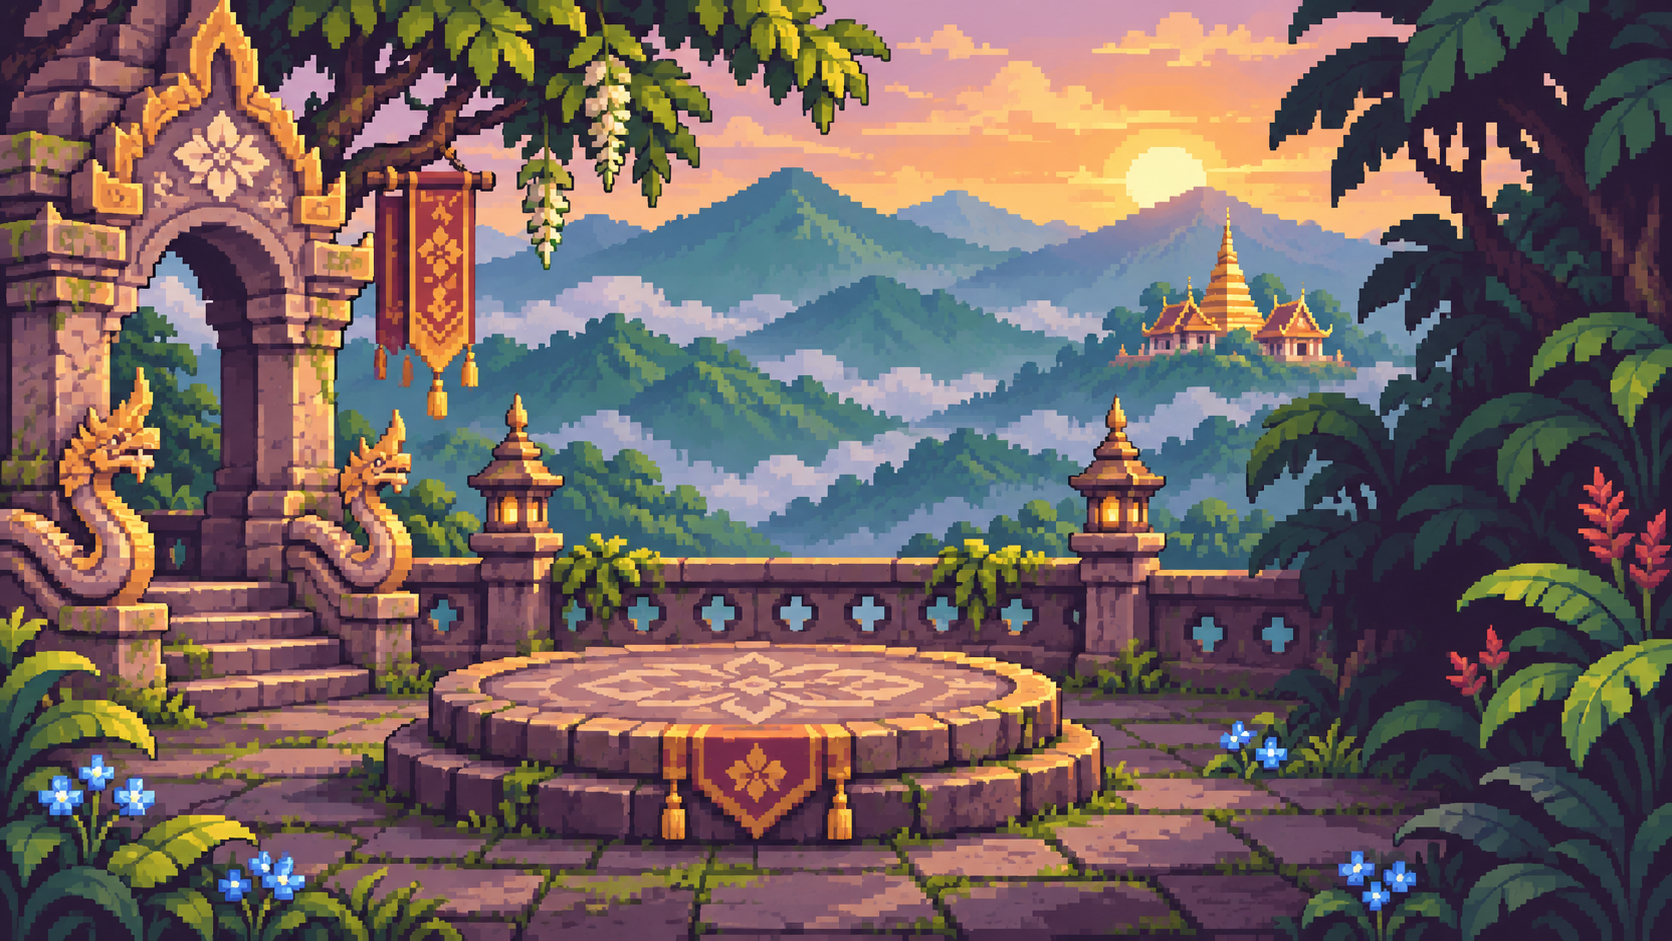
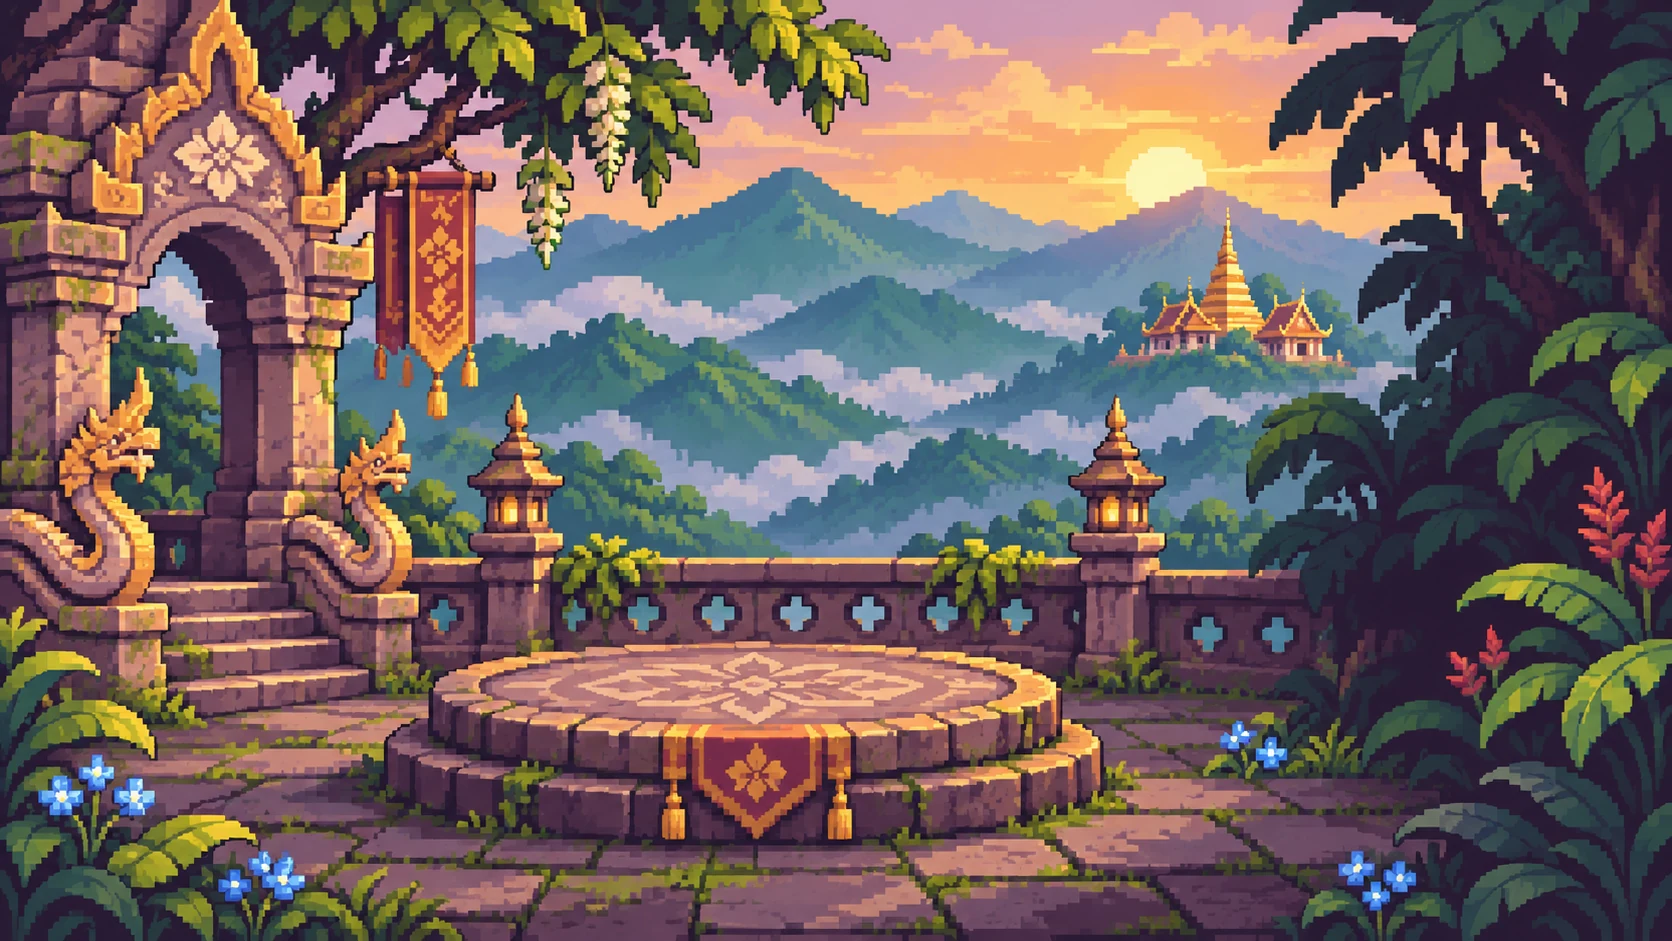
Shrink the two images that dominate the hero select screen
- heroes.png (2.8 MB, sent uncompressed by the CDN) -> heroes.webp
  (558 KB, WebP q90); all CSS, portrait and Phaser references updated.
- lobby/threshold-pixel.webp re-encoded 1.7 MB -> 260 KB (q88), served
  as ?v=2 so the CDN and browsers fetch the new file.
- Select-screen images drop from ~4.5 MB to ~1 MB; no visible change in
  side-by-side crops.
- Bump ?v= on game.js, style.css, game-ui.css, hero-lobby-v2.css,
  hero-appearance.js, rpg-ui.js and market-ui.js (kept identical across
  importers so no module loads twice).
- class-preview test accepts any hero-appearance.js version.

diff --git a/public/index.html b/public/index.html
@@ -19,13 +19,13 @@
       name="description"
       content="ผจญภัยในโลกแฟนตาซีดอยนางนอน เกม RPG 2D เล่นบนเว็บ เลือกผู้กล้า 3 อาชีพ เล่นร่วมกับเพื่อนและพิชิตดันเจียน"
     />
-    <link rel="stylesheet" href="/style.css?v=0.3.2" />
+    <link rel="stylesheet" href="/style.css?v=0.3.3" />
     <link rel="stylesheet" href="/hud.css?v=0.8.0" />
     <link rel="stylesheet" href="/mobile.css?v=0.16.0" />
     <link rel="stylesheet" href="/rpg.css?v=6" />
     <link rel="stylesheet" href="/lobby.css?v=3" />
     <link rel="stylesheet" href="/select.css?v=10" />
-    <link rel="stylesheet" href="/game-ui.css?v=4" />
+    <link rel="stylesheet" href="/game-ui.css?v=5" />
     <link rel="stylesheet" href="/minimap.css?v=3" />
     <link rel="stylesheet" href="/actionbar.css?v=4" />
     <link rel="stylesheet" href="/touch.css?v=6" />
@@ -47,7 +47,7 @@
     <link rel="stylesheet" href="/hud-v2.css?v=3" />
     <link rel="stylesheet" href="/hud-v3.css?v=2" />
     <link rel="stylesheet" href="/modern-ui.css?v=2" />
-    <link rel="stylesheet" href="/hero-lobby-v2.css?v=4" />
+    <link rel="stylesheet" href="/hero-lobby-v2.css?v=5" />
     <script src="/install.js?v=3" defer></script>
   </head>
   <body>
@@ -420,7 +420,7 @@
     </div>
     <script src="/vendor/phaser.min.js"></script>
     <script src="/socket.io/socket.io.js"></script>
-    <script type="module" src="/game.js?v=0.48.1"></script>
+    <script type="module" src="/game.js?v=0.48.2"></script>
     <script type="module" src="/orientation.js?v=3"></script>
   </body>
 </html>

diff --git a/public/game.js b/public/game.js
@@ -5,7 +5,7 @@ import { observeHudLayout } from "/hud-layout.js";
 import { isWorldPointer } from "/world-input.js";
 import { SLOT_MACHINE } from "/shared/slots.js";
 import { slotPanelHtml, bindSlotPanel } from "/slots-ui.js?v=2";
-import { heroPortraitStyle } from "/hero-appearance.js?v=3";
+import { heroPortraitStyle } from "/hero-appearance.js?v=4";
 import { skillIcon, potionIcon, manaPotionIcon, autoIcon } from "/skill-icons.js?v=5";
 import { dungeonPlatforms, withinDungeonSign } from "/shared/dungeons.js";
 import { supplyArt, itemArtPath, costumeArtPath } from "/item-art.js";
@@ -25,7 +25,7 @@ import {
   rpgPanel,
   bindRpgPanel,
   gearShop,
-} from "/rpg-ui.js?v=16";
+} from "/rpg-ui.js?v=17";
 import {
   GEAR,
   RARITIES,
@@ -41,7 +41,7 @@ import {
 } from "/shared/rpg.js";
 import { createTownNpcs, footGlow, createRim } from "/town-npcs.js?v=10";
 import { updateEnhanceAura, AURA_LEVEL } from "/enhance-aura.js?v=3";
-import { marketHtml, shopManagerHtml, marketState } from "/market-ui.js?v=9";
+import { marketHtml, shopManagerHtml, marketState } from "/market-ui.js?v=10";
 import { sampleMotion } from "/shared/smoothing.js";
 import { mergeSnapshot, SNAPSHOT_PROTOCOL } from "/shared/snapshot-delta.js?v=1";
 import {
@@ -2118,7 +2118,7 @@ class Adventure extends Phaser.Scene {
     this.load.image("cave", "/assets/cave.webp?v=2");
     this.load.image("knight-motion", "/assets/animations/knight-female.png");
     this.load.image("slime-motion", "/assets/animations/slime.png?v=3");
-    this.load.spritesheet("heroes", "/assets/heroes.png", {
+    this.load.spritesheet("heroes", "/assets/heroes.webp", {
       frameWidth: 512,
       frameHeight: 512,
     });

diff --git a/public/hero-lobby-v2.css b/public/hero-lobby-v2.css
@@ -10,7 +10,7 @@ html body #landing.hero-lobby {
   padding: 0 42px !important; gap: 0 24px;
 }
 html body #landing.hero-lobby :is(h1,h2,.hl-start,.hl-level) { font-family: 'Noto Sans Thai',sans-serif !important; font-weight: 600 !important; }
-html body #landing.hero-lobby .hl-backdrop { background: #0b2529 url('/assets/lobby/threshold-pixel.webp') 45% center / cover no-repeat; image-rendering: pixelated; }
+html body #landing.hero-lobby .hl-backdrop { background: #0b2529 url('/assets/lobby/threshold-pixel.webp?v=2') 45% center / cover no-repeat; image-rendering: pixelated; }
 html body #landing.hero-lobby .hl-backdrop :is(.hl-sky,.hl-mountains,.hl-village,.hl-ground) { display: none; }
 html body #landing.hero-lobby .hl-vignette { background: linear-gradient(90deg,#18172770,transparent 45%,#131d2666),linear-gradient(0deg,#101924ee,transparent 45%,#14232a44); }
 html body #landing.hero-lobby .hl-backdrop::after {

diff --git a/public/game-ui.css b/public/game-ui.css
@@ -86,7 +86,7 @@
 #modal[data-panel="inventory"] .character-sheet { padding-right:18px; }
 #modal[data-panel="inventory"] .paper-hero { height:178px; margin:0 0 10px; background:radial-gradient(ellipse at 50% 65%,#c7b87623,transparent 65%); }
 #modal[data-panel="inventory"] .paper-hero::after { width:110px; height:110px; border-color:#c6a26130; z-index:0; }
-.inventory-hero { width:160px; height:160px; background-image:url('/assets/heroes.png'); background-size:300% 200%; z-index:1; filter:drop-shadow(0 8px 7px #0008); }
+.inventory-hero { width:160px; height:160px; background-image:url('/assets/heroes.webp'); background-size:300% 200%; z-index:1; filter:drop-shadow(0 8px 7px #0008); }
 #modal[data-panel="inventory"] .paper-hero > small { margin-top:-3px; font-size:10px; }
 #modal[data-panel="inventory"] .power-score { padding:6px 8px; }
 #modal[data-panel="inventory"] .character-stats { gap:4px; }

diff --git a/public/hero-appearance.js b/public/hero-appearance.js
@@ -31,5 +31,5 @@ export function heroPortraitStyle(p) {
   if (url)
     return `background-image:url('${url}');background-size:contain;background-position:center;background-repeat:no-repeat${isPixel(p) ? ";image-rendering:pixelated" : ""}`;
   // Plain class look: the shared 3x2 portrait sheet.
-  return `background-image:url('/assets/heroes.png');background-size:300% 200%;background-position:${["swordsman", "archer", "mage"].indexOf(p.class) * 50}% ${p.gender === "female" ? 100 : 0}%`;
+  return `background-image:url('/assets/heroes.webp');background-size:300% 200%;background-position:${["swordsman", "archer", "mage"].indexOf(p.class) * 50}% ${p.gender === "female" ? 100 : 0}%`;
 }

diff --git a/public/style.css b/public/style.css
@@ -245,7 +245,7 @@ select:focus-visible {
   position: relative;
   width: 100%;
   aspect-ratio: 1;
-  background-image: url("/assets/heroes.png");
+  background-image: url("/assets/heroes.webp");
   background-size: 300% 200%;
   filter: drop-shadow(0 5px 10px #06152577);
   margin: 12px 0 3px;
@@ -457,7 +457,7 @@ select:focus-visible {
 #avatar {
   width: 60px;
   height: 64px;
-  background-image: url("/assets/heroes.png");
+  background-image: url("/assets/heroes.webp");
   background-size: 300% 200%;
   border: 1px solid #bc9d68;
   border-radius: 7px;

diff --git a/public/market-ui.js b/public/market-ui.js
@@ -3,7 +3,7 @@ import { itemArt, supplyArt } from "/item-art.js";
 import { GEAR, SLOTS, RARITIES } from "/shared/rpg.js";
 import { ITEMS, CLASSES } from "/shared/config.js";
 import { COSTUME_ITEMS, costumeFits } from "/shared/costumes.js";
-import { statText } from "/rpg-ui.js?v=16";
+import { statText } from "/rpg-ui.js?v=17";
 
 // Stacks sell by count: supplies, and costumes (shared/costumes.js).
 const STACKS = ["hp", "mp", "ore", ...Object.keys(COSTUME_ITEMS)];

diff --git a/public/rpg-ui.js b/public/rpg-ui.js
@@ -1,4 +1,4 @@
-import { heroPortraitStyle, heroPortraitUrl } from "/hero-appearance.js?v=3";
+import { heroPortraitStyle, heroPortraitUrl } from "/hero-appearance.js?v=4";
 import { costumesOf, ownsCostume, COSTUME_ITEMS, costumeItem, costumeFits, costumeOf } from "/shared/costumes.js";
 import { itemArt, supplyArt } from "/item-art.js";
 import {
